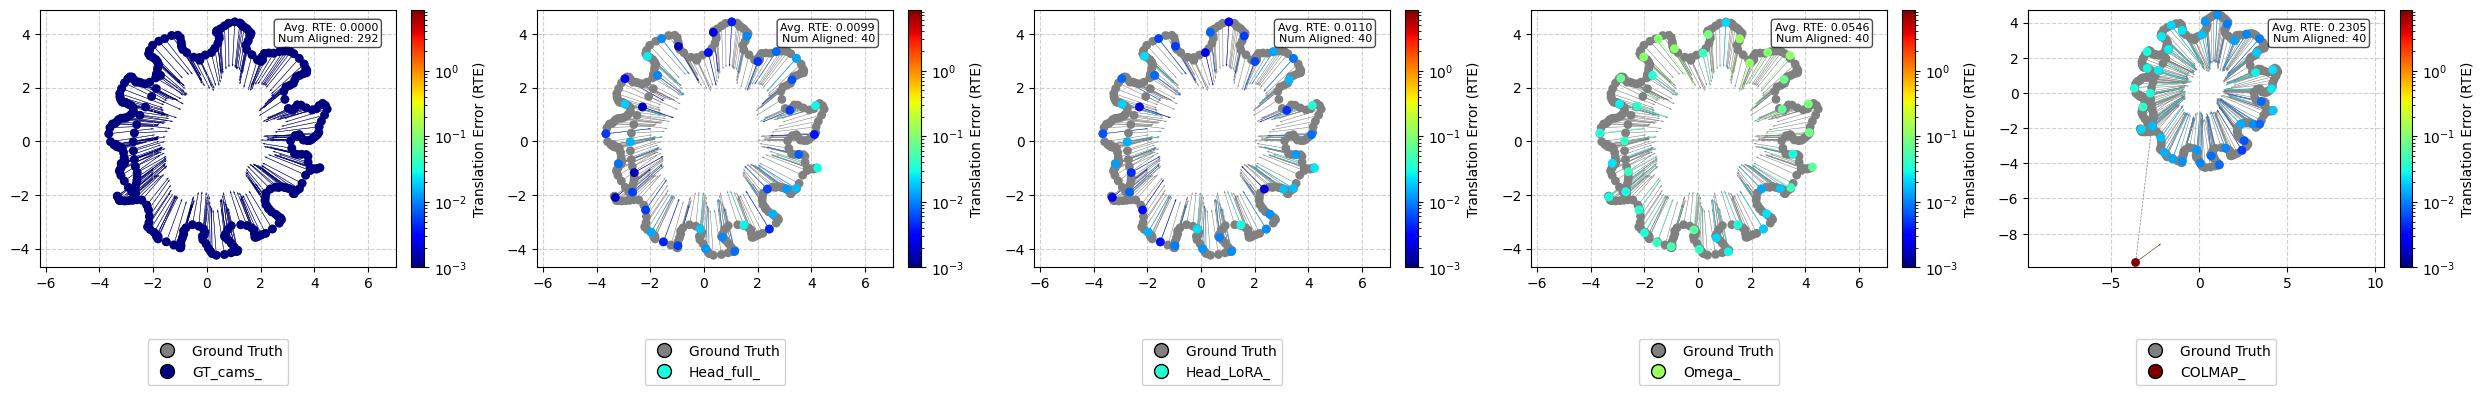
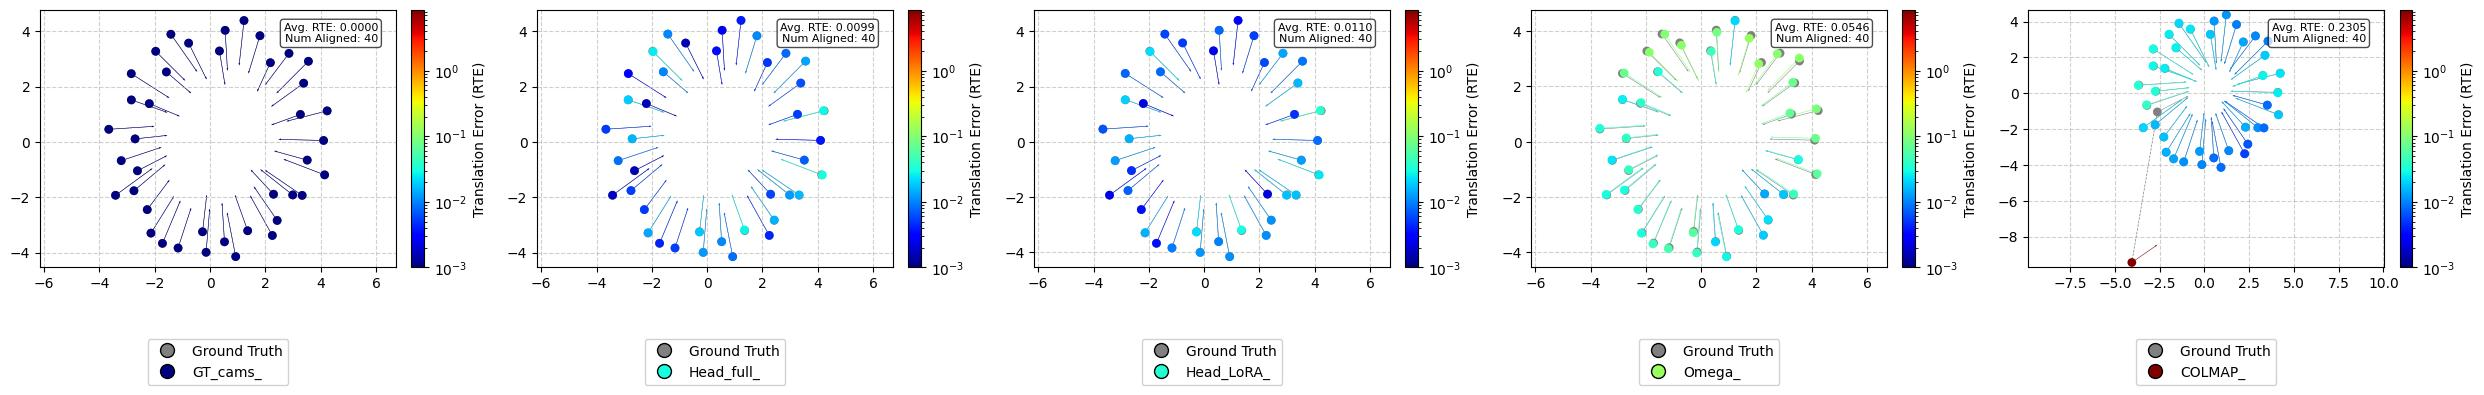
Plain renders (3 columns) for all arms and 40-camera plot in the omega_cameras_7k log

diff --git a/experiments/2026-11-13_omega_cameras_7k/make_camera_plot.py b/experiments/2026-11-13_omega_cameras_7k/make_camera_plot.py
@@ -24,13 +24,14 @@ dirs = {
 }
 gt_json = V / "vggt_outputs" / f"{base}_c0.0_p100000_random_minfarthestpose" / "gt_cameras.json"
 gt_poses, gt_K, gt_sz = (f(gt_json) for f in (load_poses_from_json, load_intrinsics_from_json, load_image_sizes_from_json))
+names = sorted(load_poses_from_json(dirs['Omega_'] / 'aligned_cameras.json'))  # the 40 training images
 series = []
 for label, d in dirs.items():
     j = d / "aligned_cameras.json"
     if not j.exists():  # GT arm: the cameras are the GT cameras, which have no aligned_cameras.json
         j = gt_json
     series.append(CameraSeries(label, (1.0, 0.0, 0.0, 0.5), load_poses_from_json(j), load_intrinsics_from_json(j),
-                               load_image_sizes_from_json(j), gt_poses, gt_K, gt_sz, list(gt_poses.keys())))
+                               load_image_sizes_from_json(j), gt_poses, gt_K, gt_sz, names))
 tmp = Path(tempfile.mkdtemp())
 plot_extrinsics([("default", series)], tmp, use_error_colors=True, max_cols=5)
 out = Path(__file__).resolve().parent / "figures" / "cameras.jpg"

diff --git a/experiment_runner.py b/experiment_runner.py
@@ -5046,7 +5046,7 @@ experiments.append(
             horizontal_datasets=False,
             show_gt=True,
             show_zoom=True,
-            show_differences=True,
+            show_differences=False,
             render_nums=[0, 2, 5],
         ),
         val_steps=[1, 3000, 7000],

diff --git a/experiments/2026-11-13_omega_cameras_7k/README.md b/experiments/2026-11-13_omega_cameras_7k/README.md
@@ -59,16 +59,16 @@ PSNR / SSIM / LPIPS at the evaluation steps, and the camera errors (constant ove
 | 4. Omega initial | 10.95 / 0.246 / 0.789 | 19.90 / 0.631 / 0.370 | 19.76 / 0.617 / 0.307 | 0.4131 | 0.01296 |
 | 5. COLMAP | 10.95 / 0.246 / 0.789 | 20.88 / 0.642 / 0.297 | 20.86 / 0.631 / 0.226 | 0.5092 | 0.05524 |
 
-Renders (runner plot config of `omega_cameras_7k`: `render_nums=[0, 2, 5]`, ground truth, zoom boxes and error maps; produced by
-`--plot_only`, copy of `latest_plots/102_omega_cameras_7k_bonsai_latest_renders.jpg`). The generated figure shows the GT
-row and the error-map rows of arms 1, 5 and 2 only; the other arms are not in the figure:
+Renders (runner plot config of `omega_cameras_7k`: `render_nums=[0, 2, 5]`, `max_render_cols=3`, ground truth row, zoom boxes,
+plain renders at step 7000; produced by `--plot_only`, copy of `latest_plots/102_omega_cameras_7k_bonsai_latest_renders.jpg`).
+Rows: ground truth, then arms 3, 2, 4, 1, 5:
 
 ![renders](figures/renders.jpg)
 
 Cameras of the five sets (`make_camera_plot.py`, `plot_extrinsics` from `vggt/plot_cameras.py`, RTE-coloured; predicted cameras
 from each run's `aligned_cameras.json`, i.e. aligned to the GT world, so the RTE values are in the GT frame and differ from
-`eval_rte`; left to right: GT, full head, LoRA, Omega, COLMAP). Average RTE shown in the plots: GT 0.0000 (292 cameras), full head
-0.0099, LoRA 0.0110, Omega 0.0546, COLMAP 0.2305 (40 cameras each); one COLMAP camera lies far from the others in the plot:
+`eval_rte`; left to right: GT, full head, LoRA, Omega, COLMAP). Average RTE shown in the plots: GT 0.0000, full head
+0.0099, LoRA 0.0110, Omega 0.0546, COLMAP 0.2305 (the same 40 training cameras in every panel); one COLMAP camera lies far from the others in the plot:
 
 ![cameras](figures/cameras.jpg)
 
@@ -84,6 +84,7 @@ Gaussian count: 100,000 at step 1, 322,497 at step 3000, 1,000,000 at step 7000 
   cameras were mapped into the Omega reconstruction frame with an exact similarity fitted on the initial cameras.
 - The arm 2 and 3 cameras were fine-tuned against the same GT cameras used for the evaluation (on the 40 training frames).
 - Variant 2/3 camera check: scoring the written variant against GT gave rre 0.056 / rte 0.002351 (full head), against 0.0574 / 0.002353 in the smoke test.
+- All five arms train on the same 40 images (every data directory's `sparse/` model holds the same 40 images) and are evaluated on the same test images.
 - The three evaluation steps are the trainer's fixed ones (the experiment definition listed 1000 and 5000 too; they were never evaluated).
 
 ## Insights
